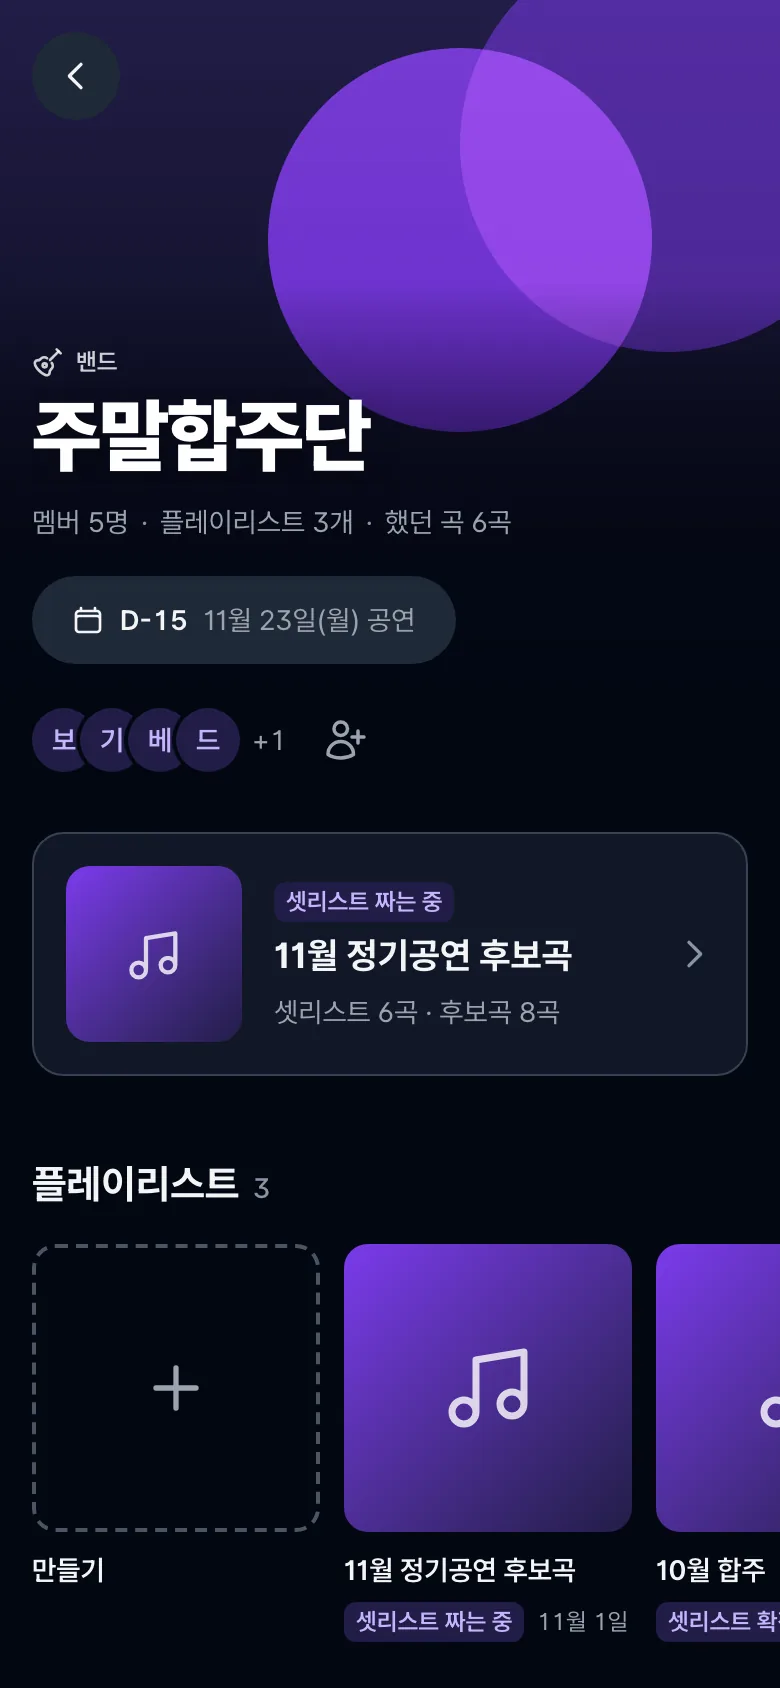
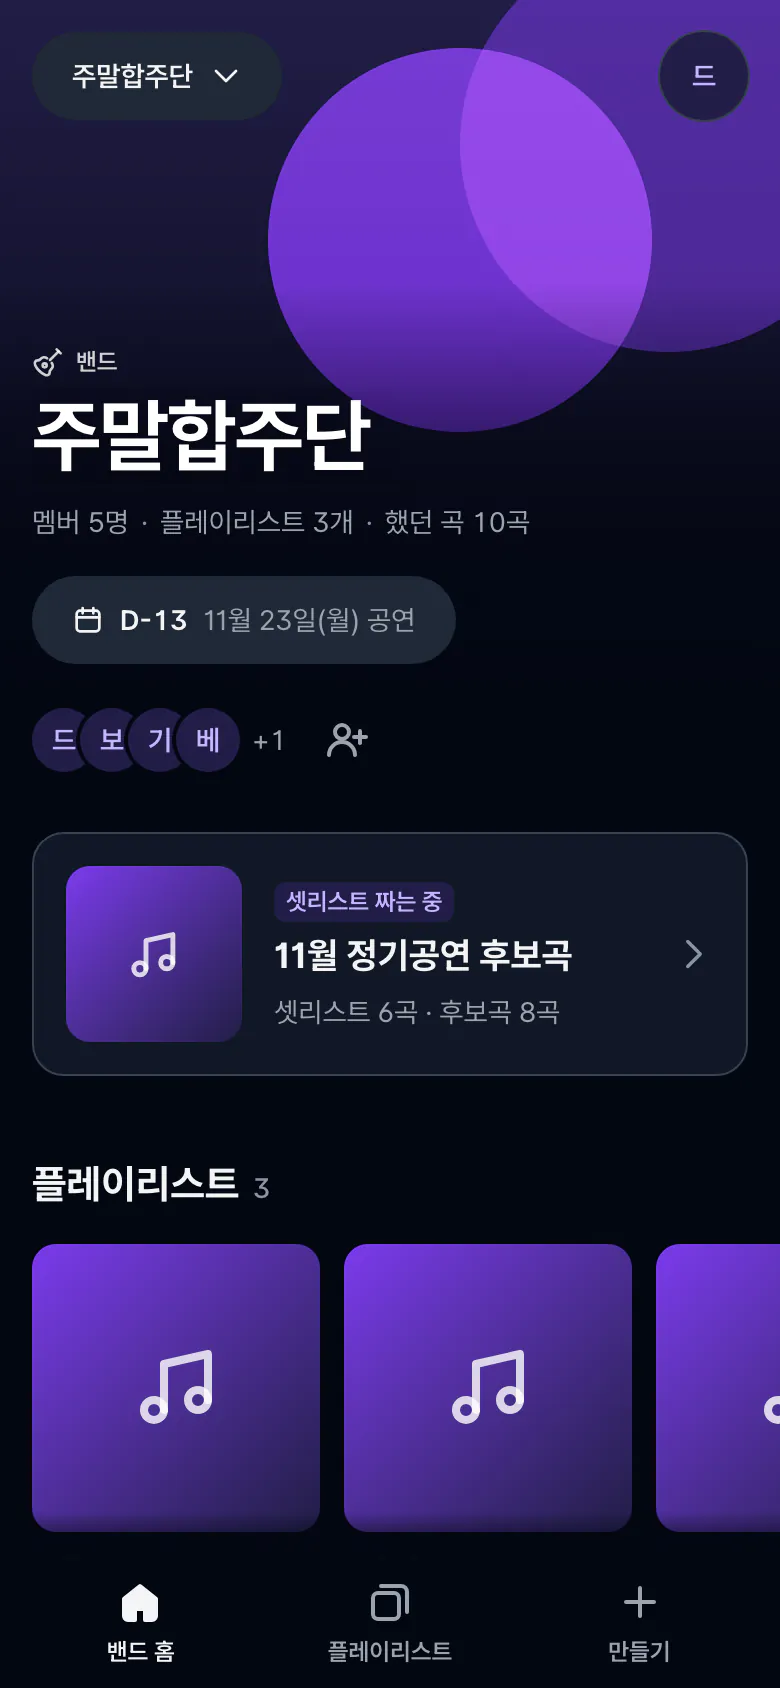
fix(seo): 랜딩·가이드의 제품 화면을 지금 화면으로 다시 찍고 바뀐 버튼 위치를 고친다
로그아웃 랜딩(/)과 /about·/guide·두 가이드가 11-08 에 찍은 화면을 싣고 있었다. 그 뒤 플레이리스트와
밴드 홈이 많이 바뀌었다(아래 탭 막대, 앨범 커버 머리와 동작 줄, 밴드 전환 버튼). 그래서 처음 오는 사람이
지금 앱과 다른 화면을 봤다. 문구도 두 군데가 없어진 버튼을 가리켰다.

- candidates-vote·setlist-runtime·band-home.webp 를 지금 main 으로 다시 찍는다. 크기는 780×1688 그대로다
  (390×844 첫 화면, 2x). unslop 캡처 하네스의 fixture 모드(가짜 Supabase, 가상 밴드 주말합주단, 고정 시계
  2026-11-10 19:00)로 찍었다. .env 는 읽지 않았고 운영 DB 에 닿지 않는다. 가상 데이터는 두 군데만 바꿨다.
  셋리스트 마지막 곡은 밤의 리허설 4:20·140 BPM 이다. 그래야 "위 예시를 넣은 화면" 캡션대로
  /guide/setlist 30분 예시와 setlist-export.webp(27:20)가 맞는다. 연말 파티 곡은 뺐다. 그래야 밴드 홈의
  지금 카드가 다른 두 장과 같은 11월 정기공연 후보곡이다.
- WebP 는 next 가 이미 가진 sharp 0.35.5(libwebp 1.6.0)로 q80·effort 6 에 인코딩했다. 34,206·39,330·32,870
  바이트다(이전 42,334·42,922·34,896).
- setlist-export.webp 는 그대로 둔다. 4cc6907 이후 setlist-image route 와 그 import 에 커밋이 없다.
- 세 장의 alt 를 새 화면대로 고친다(D-15 → D-13, 셋리스트는 6곡·27:20·인터벌 3, 보이는 인터벌,
  아래 탭 막대, 밴드 전환 버튼).
- 거짓이 된 문장 네 개를 고친다. 투표 초대는 "플레이리스트 위쪽의 카카오톡 버튼"이 아니라 후보곡 탭 제목
  아래 공유 버튼이다(PlaylistHeader 의 카카오톡 공유). 셋리스트 내보내기에는 "내보내기" 글자 버튼이 없고
  셋리스트 탭 제목 아래 공유 버튼이 연다(SetlistShareButton).
- 다섯 페이지의 글이 바뀌어 sitemap lastModified 와 두 가이드의 modified 를 2026-11-15 로 올린다.

확인: npm run check 통과(152 파일, 2132 테스트). fixture 모드 dev 서버에서 다섯 페이지를 320·390px 로
열었다. 제품 화면이 모두 로드되고 alt 가 seo.ts 와 같았으며, 320px 에서 가로로 넘치는 요소가 없었다.
옛 화면과 새 화면을 나란히 붙인 비교 이미지를 눈으로 확인했다.

Refs #82

diff --git a/src/lib/seo.ts b/src/lib/seo.ts
@@ -72,19 +72,19 @@ export const PRODUCT_SCREENSHOTS = {
     src: "/screenshots/candidates-vote.webp",
     width: 780,
     height: 1688,
-    alt: "Plypick 후보곡 탭. 밴드 멤버가 올린 후보곡이 점수 높은 순으로 놓이고, 곡마다 순위, 찬성·반대 버튼과 점수가 있는 화면",
+    alt: "Plypick 후보곡 탭. 커버 아래 플레이리스트 제목과 곡 수·참여 인원·마감, 공유·재생 버튼이 있고, 밴드 멤버가 올린 후보곡이 점수 높은 순으로 순위, 찬성·반대 버튼, 점수와 함께 놓이며, 맨 아래에 밴드 홈·후보곡·셋리스트·합주 탭이 있는 화면",
   },
   setlist: {
     src: "/screenshots/setlist-runtime.webp",
     width: 780,
     height: 1688,
-    alt: "Plypick 셋리스트 탭. 위에 총 공연 시간 27:20과 6곡·인터벌 3이 있고, 곡과 자작곡 사이에 인사·튜닝·마지막 곡 소개 인터벌이 들어가 블록마다 시작 시각이 붙은 화면",
+    alt: "Plypick 셋리스트 탭. 커버 옆에 6곡·총 공연 시간 27:20·인터벌 3이 있고, 곡 사이에 인사·멤버 소개와 튜닝 바꾸기 인터벌이 들어가 오른쪽 타임라인에 블록마다 시작 시각이 붙으며, 맨 아래에 밴드 홈·후보곡·셋리스트·합주 탭이 있는 화면",
   },
   bandHome: {
     src: "/screenshots/band-home.webp",
     width: 780,
     height: 1688,
-    alt: "Plypick 밴드 홈. 밴드 이름과 공연 D-15 아래에 '셋리스트 짜는 중' 배지가 붙은 지금 플레이리스트 카드와 밴드의 플레이리스트 선반이 있는 화면",
+    alt: "Plypick 밴드 홈. 왼쪽 위에 밴드를 바꾸는 버튼이 있고, 밴드 이름과 공연 D-13 아래에 '셋리스트 짜는 중' 배지가 붙은 지금 플레이리스트 카드와 밴드의 플레이리스트 선반, 맨 아래에 밴드 홈·플레이리스트·만들기 탭이 있는 화면",
   },
   setlistImage: {
     src: "/screenshots/setlist-export.webp",
@@ -178,7 +178,7 @@ export const GUIDE_ARTICLES = {
     description:
       "공연 곡 순서를 정하고, 멘트·튜닝 시간까지 더해 무대 시간에 맞추고, 무대에 붙일 셋리스트 양식까지 만드는 방법을 정리했어요. 30분 무대 예시도 있어요.",
     published: "2026-11-08",
-    modified: "2026-11-08",
+    modified: "2026-11-15",
   },
   chooseSongs: {
     path: "/guide/choose-songs",
@@ -187,7 +187,7 @@ export const GUIDE_ARTICLES = {
     description:
       "후보곡 고르는 기준부터 투표 방식, 마감, 동점일 때, 카톡 투표와 다른 점까지 밴드가 합주곡과 공연곡을 투표로 정하는 방법을 정리했어요.",
     published: "2026-11-08",
-    modified: "2026-11-08",
+    modified: "2026-11-15",
   },
 } as const satisfies Record<string, GuideArticle>;
 

diff --git a/src/app/guide/page.tsx b/src/app/guide/page.tsx
@@ -60,7 +60,7 @@ export default function GuidePage() {
           <section>
             <StepHeading step={3}>단톡방에 링크 보내기</StepHeading>
             <p>
-              플레이리스트 위쪽의 카카오톡 버튼을 누르면 단톡방에 투표 카드가 올라가요. 만들 때 나오는 링크 복사와 QR 코드로도
+              후보곡 탭에서 플레이리스트 제목 아래 공유 버튼을 누르면 단톡방에 투표 카드가 올라가요. 만들 때 나오는 링크 복사와 QR 코드로도
               보낼 수 있어요.
             </p>
             <p className="mt-2">
@@ -116,7 +116,7 @@ export default function GuidePage() {
           <section>
             <StepHeading step={6}>내보내기와 공유</StepHeading>
             <p>
-              셋리스트 탭의 내보내기에서 링크 공유, 이미지로 저장, PDF로 저장을 골라요. 이미지는 휴대폰에서 보기 좋은 세로 한
+              셋리스트 탭에서 제목 아래 공유 버튼을 누르고 링크 공유, 이미지로 저장, PDF로 저장 중에서 골라요. 이미지는 휴대폰에서 보기 좋은 세로 한
               장이고, PDF는 A4 여러 페이지에 전체 셋리스트를 담아요. 마감 뒤 셋리스트가 확정되면 후보곡 탭에서 카톡 공유 카드로도
               보내요.
             </p>

diff --git a/src/app/sitemap.ts b/src/app/sitemap.ts
@@ -9,9 +9,9 @@ import { GUIDE_ARTICLES, SITE_URL } from "@/lib/seo";
 // A guide's date is its article's `modified`, the same date its structured data carries.
 export default function sitemap(): MetadataRoute.Sitemap {
   return [
-    { url: SITE_URL, lastModified: "2026-11-08", changeFrequency: "weekly", priority: 1 },
-    { url: `${SITE_URL}/about`, lastModified: "2026-11-08", changeFrequency: "monthly", priority: 0.8 },
-    { url: `${SITE_URL}/guide`, lastModified: "2026-11-08", changeFrequency: "monthly", priority: 0.8 },
+    { url: SITE_URL, lastModified: "2026-11-15", changeFrequency: "weekly", priority: 1 },
+    { url: `${SITE_URL}/about`, lastModified: "2026-11-15", changeFrequency: "monthly", priority: 0.8 },
+    { url: `${SITE_URL}/guide`, lastModified: "2026-11-15", changeFrequency: "monthly", priority: 0.8 },
     ...Object.values(GUIDE_ARTICLES).map((article) => ({
       url: `${SITE_URL}${article.path}`,
       lastModified: article.modified,

diff --git a/src/app/guide/setlist/page.tsx b/src/app/guide/setlist/page.tsx
@@ -201,7 +201,7 @@ export default function SetlistGuidePage() {
           보컬 발밑, 드럼 옆처럼 멤버마다 보이는 자리에 한 장씩 붙여요.
         </p>
         <p>
-          Plypick에서는 셋리스트 탭의 내보내기에서 이미지나 PDF로 저장해요. 이미지는 휴대폰에서 보기 좋은 세로 한 장이고, BPM과 곡
+          Plypick에서는 셋리스트 탭 제목 아래 공유 버튼을 눌러 이미지나 PDF로 저장해요. 이미지는 휴대폰에서 보기 좋은 세로 한 장이고, BPM과 곡
           길이가 같이 들어가요. 셋리스트가 길어서 이미지 한 장에 다 들어가지 않으면 PDF로 저장해요. PDF는 A4 크기로 여러 페이지에
           전부 담아서 보면대나 합주실에 두기 좋아요. 무대 바닥용은 곡 제목만 크게 따로 뽑는 편이 읽기 편해요.
         </p>

diff --git a/src/app/guide/choose-songs/page.tsx b/src/app/guide/choose-songs/page.tsx
@@ -142,7 +142,7 @@ export default function ChooseSongsGuidePage() {
           <li>투표가 끝나도 곡 순서와 공연 시간은 손으로 다시 정리해야 해요. Plypick은 점수 높은 후보곡을 셋리스트에 바로 넣고 총 시간까지 더해요.</li>
         </GuideList>
         <p>
-          단톡방은 그대로 써요. 플레이리스트 위쪽의 카카오톡 버튼을 누르면 단톡방에 투표 카드가 올라가고, 멤버는 카카오 로그인 한
+          단톡방은 그대로 써요. 후보곡 탭에서 플레이리스트 제목 아래 공유 버튼을 누르면 단톡방에 투표 카드가 올라가고, 멤버는 카카오 로그인 한
           번이면 투표해요.
         </p>
       </GuideSection>
